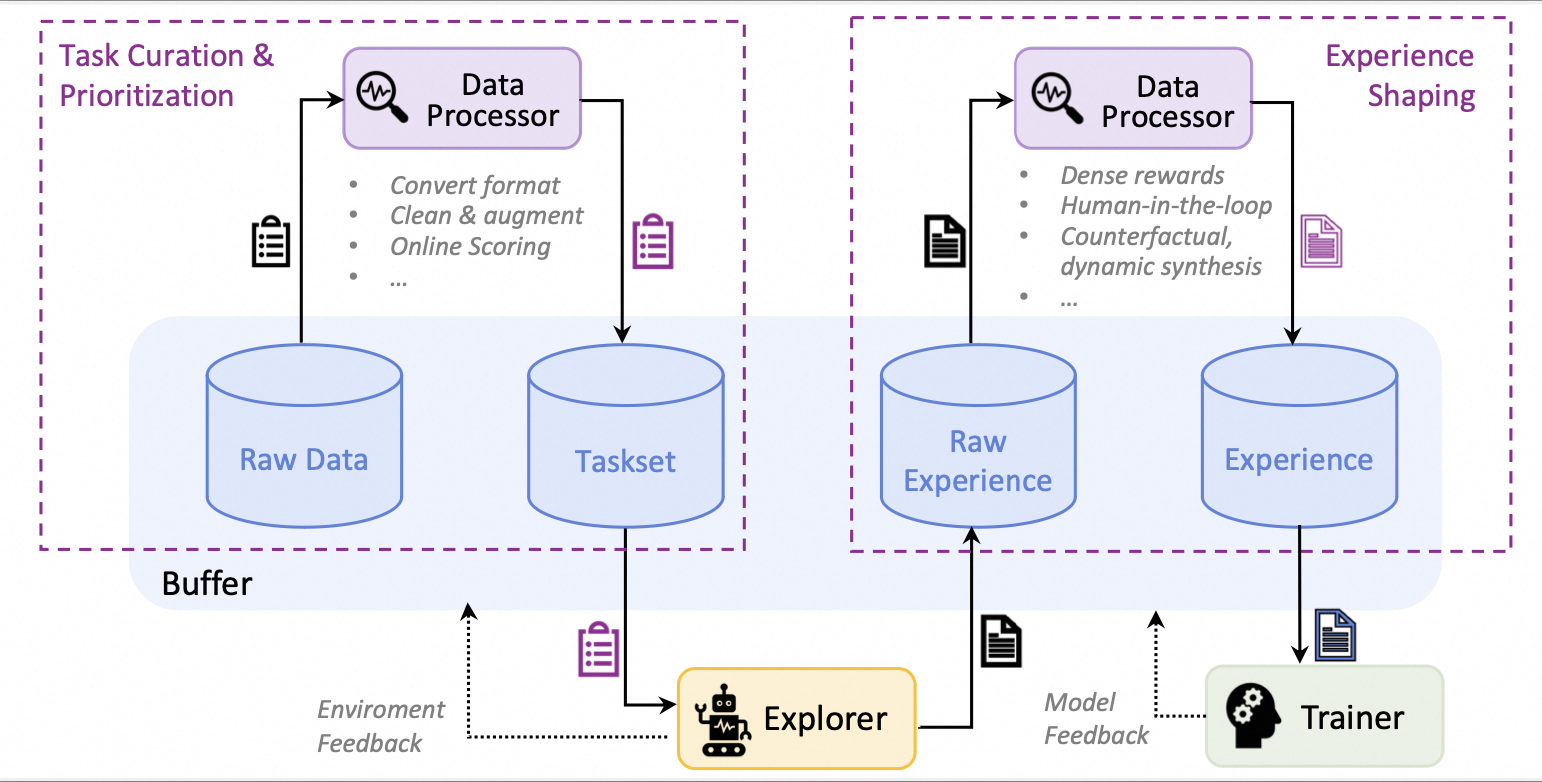
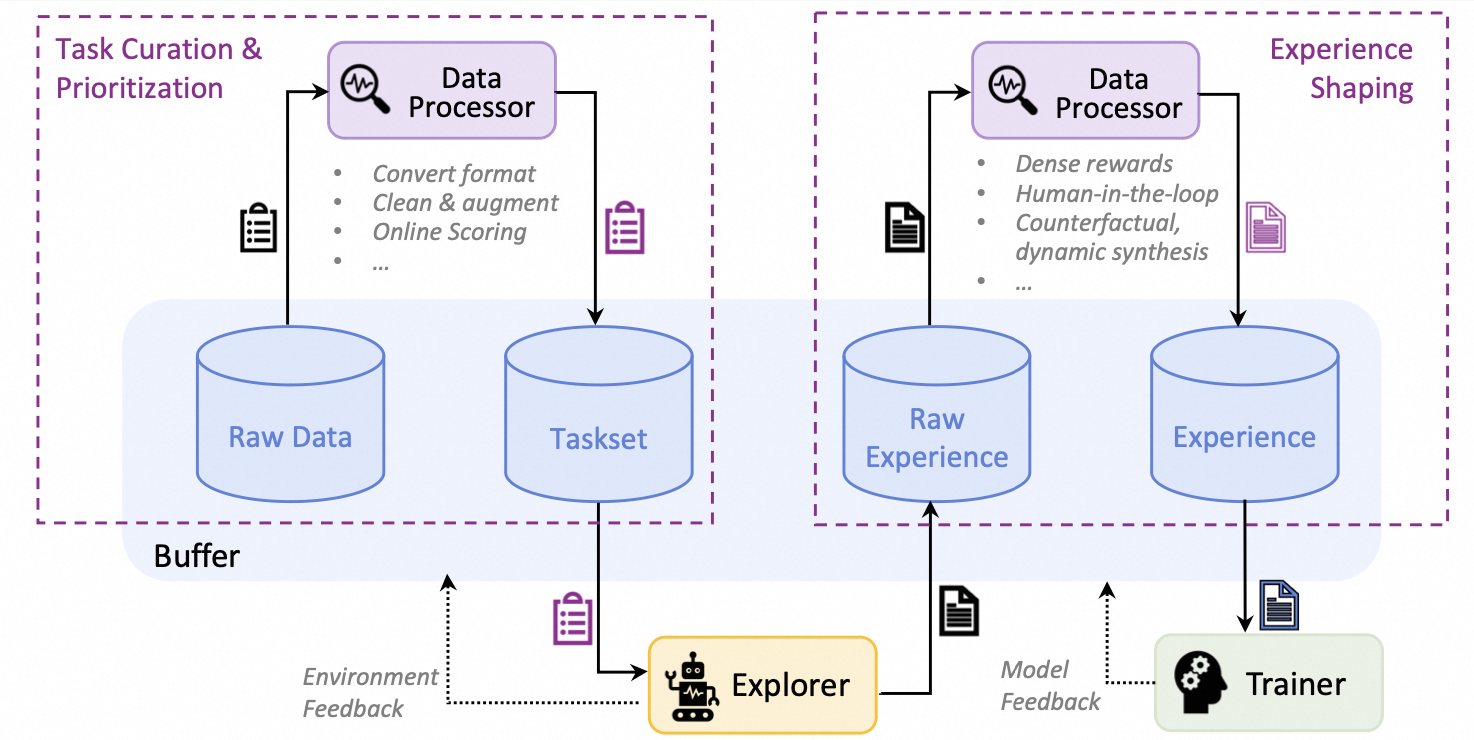
Refine

diff --git a/README.md b/README.md
@@ -8,6 +8,10 @@
 
 &nbsp;
 
+
+<h2 align="center">Trinity-RFT: A General-Purpose and Unified Framework for Reinforcement Fine-Tuning of Large Language Models</h2>
+
+
 <div align="center">
 
 [![paper](http://img.shields.io/badge/cs.LG-2505.17826-B31B1B?logo=arxiv&logoColor=red)](https://arxiv.org/abs/2505.17826)
@@ -18,34 +22,13 @@
 </div>
 
 
-- [News](#news)
-- [What is Trinity-RFT, and why?](#what-is-trinity-rft-and-why)
-  - [Key Features](#key-features)
-  - [What can I use Trinity-RFT for?](#what-can-i-use-trinity-rft-for)
-- [Getting started](#getting-started)
-  - [Step 1: preparations](#step-1-preparations)
-  - [Step 2: prepare dataset and model](#step-2-prepare-dataset-and-model)
-  - [Step 3: configurations](#step-3-configurations)
-  - [Step 4: run the RFT process](#step-4-run-the-rft-process)
-- [Further examples](#further-examples)
-- [Advanced usage and full configurations](#advanced-usage-and-full-configurations)
-- [Programming guide for developers](#programming-guide-for-developers)
-- [Details: design and implementations](#details-design-and-implementations)
-- [Upcoming features](#upcoming-features)
-- [Contribution guide](#contribution-guide)
-- [Acknowledgements](#acknowledgements)
-- [Citation](#citation)
-
-
-
 
 ## News
 
-* 2025/7: arXiv v2 technical report is released
-* 2025/6: v0.2.0 is released
-* 2025/5: arXiv v1 technical report is released
-* 2025/5: v0.1.0 is released
-* 2025/4: The initial codebase of Trinity-RFT is open
+* [2025-07] We update the [technical report](https://arxiv.org/abs/2505.17826) (arXiv v2) with new features, examples, and experiments.
+* [2025-06] Trinity-RFT v0.2.0 is released.
+* [2025-05] We release Trinity-RFT v0.1.0 and a technical report.
+* [2025-04] The initial codebase of Trinity-RFT is open.
 
 
 ## What is Trinity-RFT, and why?
@@ -61,7 +44,7 @@ It can be easily adapted for diverse application scenarios, and serve as a unifi
 
 * **An RFT-core that unifies and generalizes diverse RL modes:**
 supports synchronous/asynchronous, on-policy/off-policy, and online/offline training;
-allows rollout and training to run separately and scale up independently on separate GPUs.
+allows rollout and training to run separately and scale up independently on different devices.
 
 * **Agent-environment interaction as a first-class citizen:**
 gracefully handles challenges like lagged environmental feedback, long-tailed latencies, and environment/agent failures.
@@ -82,10 +65,6 @@ rich graphical user interfaces for low-code usage.
 
 
 
-
-
-
-
 ### What can I use Trinity-RFT for?
 
 
@@ -98,6 +77,25 @@ rich graphical user interfaces for low-code usage.
 
 
 * Use the rich set of graphical user interfaces for low-code usage or development, with easy monitoring and tracking of the learning process
+
+
+## Table of contents
+
+- [Getting started](#getting-started)
+  - [Step 1: preparations](#step-1-preparations)
+  - [Step 2: prepare dataset and model](#step-2-prepare-dataset-and-model)
+  - [Step 3: configurations](#step-3-configurations)
+  - [Step 4: run the RFT process](#step-4-run-the-rft-process)
+- [Further examples](#further-examples)
+- [Documentation](#documentation)
+  - [Advanced usage and full configurations](#advanced-usage-and-full-configurations)
+  - [Programming guide for developers](#programming-guide-for-developers)
+  - [Details: design and implementations](#details-design-and-implementations)
+- [Upcoming features](#upcoming-features)
+- [Contribution guide](#contribution-guide)
+- [Acknowledgements](#acknowledgements)
+- [Citation](#citation)
+
 
 
 
@@ -257,10 +255,10 @@ Then, for command-line users, run the RFT process with the following command:
 trinity run --config <config_path>
 ```
 
-> For example, below is the command for fine-tuning Qwen2.5-1.5B-Instruct on GSM8k dataset using GRPO algorithm:
-> ```shell
-> trinity run --config examples/grpo_gsm8k/gsm8k.yaml
-> ```
+For example, below is the command for fine-tuning Qwen2.5-1.5B-Instruct on GSM8k dataset using GRPO algorithm:
+```shell
+trinity run --config examples/grpo_gsm8k/gsm8k.yaml
+```
 
 For studio users, just click the "Run" button in the web page.
 
@@ -280,7 +278,11 @@ For more detailed examples about how to use Trinity-RFT, please refer to the fol
 For some frequently asked questions, see [FAQ](./docs/sphinx_doc/source/tutorial/faq.md).
 
 
-## Advanced usage and full configurations
+
+## Documentation
+
+
+### Advanced usage and full configurations
 
 
 Please refer to [this document](./docs/sphinx_doc/source/tutorial/trinity_configs.md).
@@ -289,7 +291,7 @@ Please refer to [this document](./docs/sphinx_doc/source/tutorial/trinity_config
 
 
 
-## Programming guide for developers
+### Programming guide for developers
 
 
 Please refer to [this document](./docs/sphinx_doc/source/tutorial/trinity_programming_guide.md).
@@ -297,7 +299,7 @@ Please refer to [this document](./docs/sphinx_doc/source/tutorial/trinity_progra
 
 
 
-## Details: design and implementations
+### Details: design and implementations
 
 
 
@@ -319,7 +321,7 @@ Please refer to [this document](./docs/sphinx_doc/source/tutorial/trinity_progra
 
 
 <p align="center">
-  <img src="https://img.alicdn.com/imgextra/i2/O1CN01CXL3z31qBonf8XW8S_!!6000000005458-2-tps-1542-782.png" alt="Trinity-RFT-data-pipeline-buffer">
+  <img src="https://img.alicdn.com/imgextra/i3/O1CN01hR1LCh25kpJMKmYR4_!!6000000007565-2-tps-1474-740.png" alt="Trinity-RFT-data-pipeline-buffer">
   <em>The architecture of data processors</em>
 </p>
 
@@ -376,11 +378,9 @@ This project is built upon many excellent open-source projects, including:
 + we have also drawn inspirations from RL frameworks like [OpenRLHF](https://github.com/OpenRLHF/OpenRLHF), [TRL](https://github.com/huggingface/trl) and [ChatLearn](https://github.com/alibaba/ChatLearn);
 + ......
 
-
-
-
-
 ## Citation
+
+
 ```plain
 @misc{trinity-rft,
       title={Trinity-RFT: A General-Purpose and Unified Framework for Reinforcement Fine-Tuning of Large Language Models},
